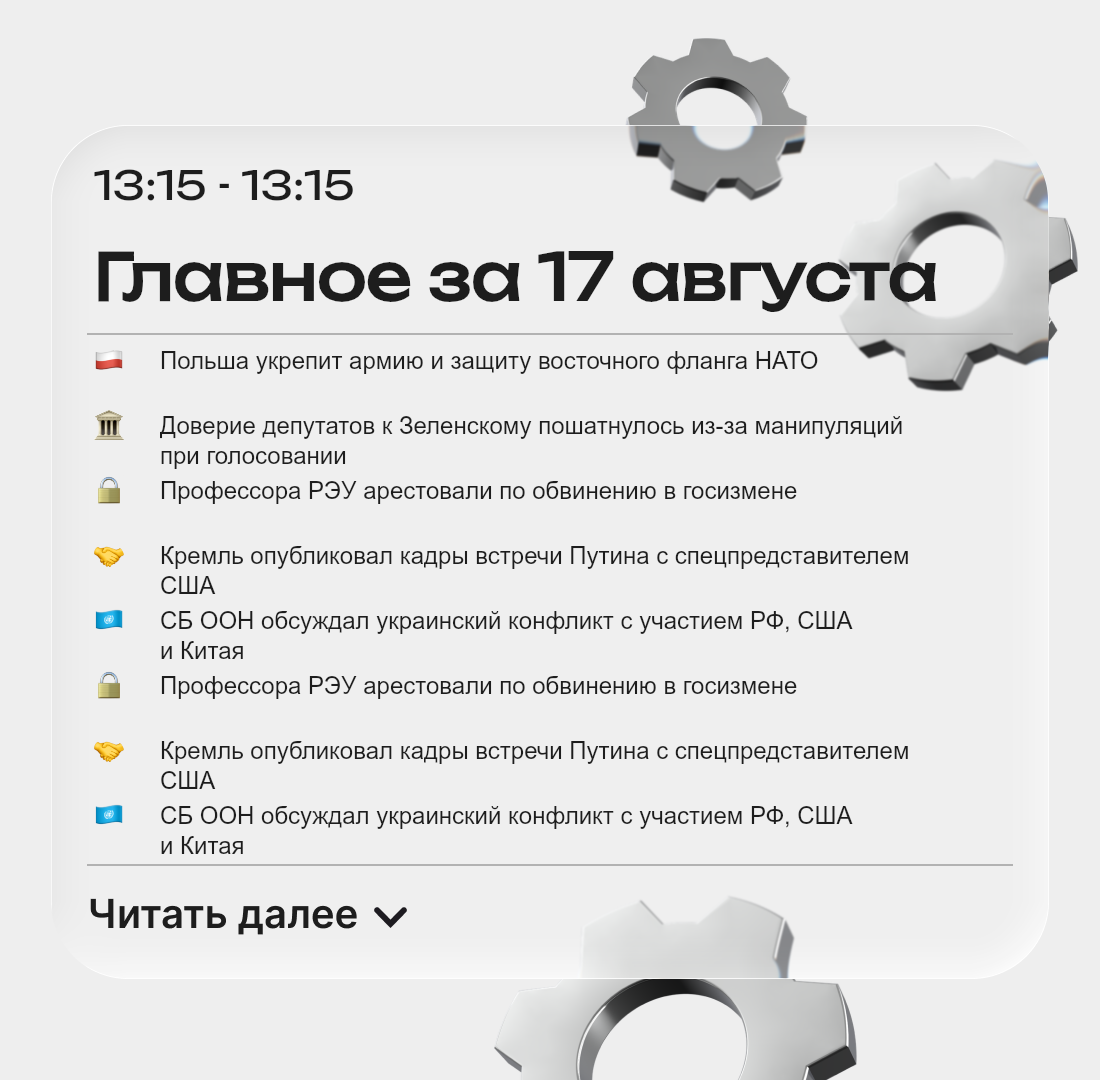
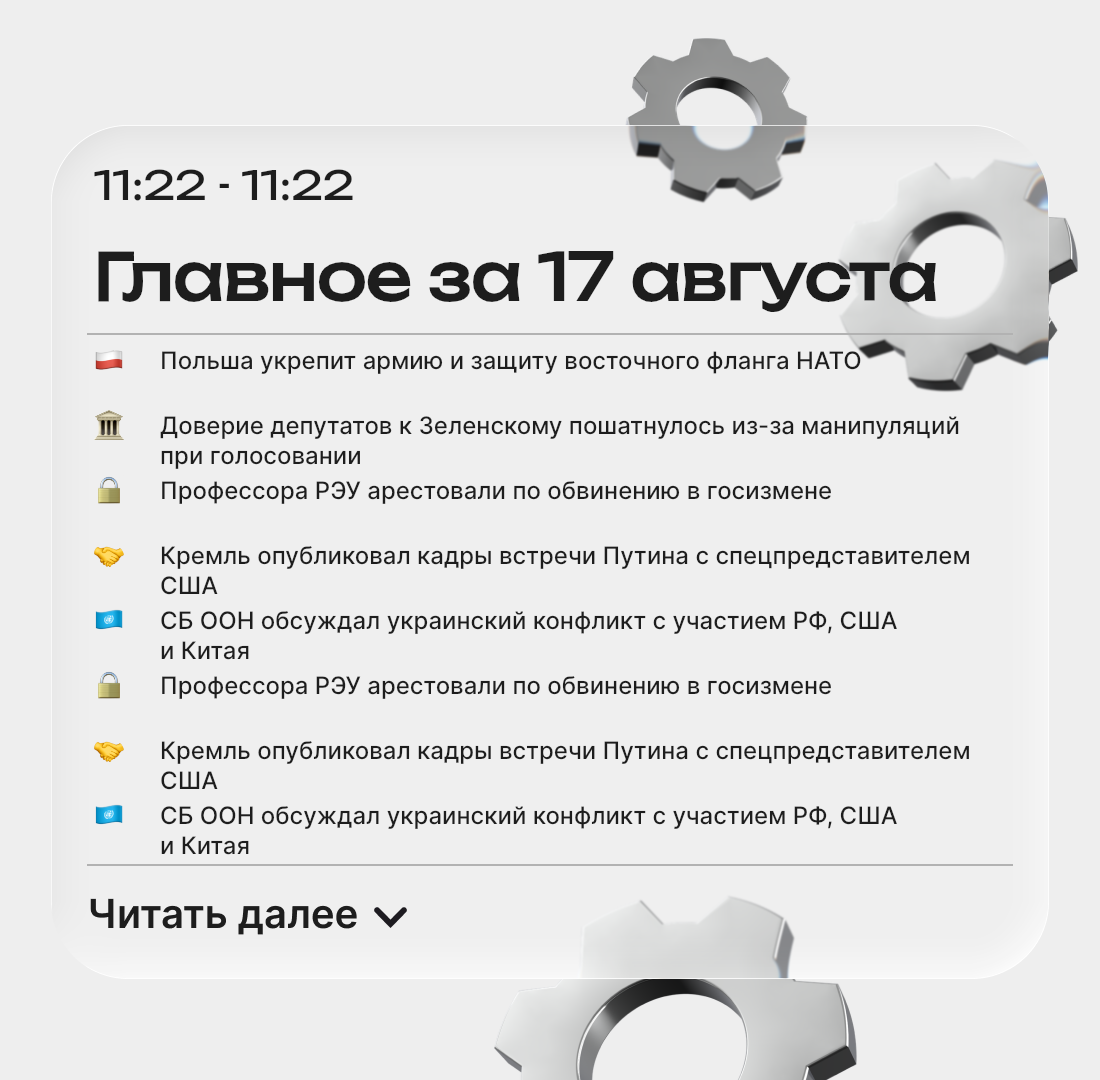
add line feed to post suffix

diff --git a/src/canvas/canvas.ts b/src/canvas/canvas.ts
@@ -282,53 +282,54 @@ export function clearPhotoDir() {
 }
 
 if (config.renderDebug) {
-renderPostImage({
-  cluster: Cluster.Технологии,
-  summary: [
-    {
-      emoji: "🇵🇱",
-      summary_short: "Польша укрепит армию и защиту восточного фланга НАТО",
-    },
-    {
-      emoji: "🏛",
-      summary_short:
-        "Доверие депутатов к Зеленскому пошатнулось из-за манипуляций при голосовании",
-    },
-    {
-      emoji: "🔒",
-      summary_short: "Профессора РЭУ арестовали по обвинению в госизмене",
-    },
-    {
-      emoji: "🤝",
-      summary_short:
-        "Кремль опубликовал кадры встречи Путина с спецпредставителем США",
-    },
-    {
-      emoji: "🇺🇳",
-      summary_short:
-        "СБ ООН обсуждал украинский конфликт с участием РФ, США и Китая",
-    },
-    {
-      emoji: "🔒",
-      summary_short: "Профессора РЭУ арестовали по обвинению в госизмене",
-    },
-    {
-      emoji: "🤝",
-      summary_short:
-        "Кремль опубликовал кадры встречи Путина с спецпредставителем США",
-    },
-    {
-      emoji: "🇺🇳",
-      summary_short:
-        "СБ ООН обсуждал украинский конфликт с участием РФ, США и Китая",
-    },
-  ],
-  toDate: new Date(),
-  fromDate: new Date(),
-})
-  .then((imageBuffer) => fs.promises.writeFile(`./techno.png`, imageBuffer))
-  .then(
-    (result) => console.log("Successfully wrote image"),
-    (reason) => console.error("Error", reason)
-  );
+  const imagePath = path.join(rootDir, `./techno.png`);
+  renderPostImage({
+    cluster: Cluster.Технологии,
+    summary: [
+      {
+        emoji: "🇵🇱",
+        summary_short: "Польша укрепит армию и защиту восточного фланга НАТО",
+      },
+      {
+        emoji: "🏛",
+        summary_short:
+          "Доверие депутатов к Зеленскому пошатнулось из-за манипуляций при голосовании",
+      },
+      {
+        emoji: "🔒",
+        summary_short: "Профессора РЭУ арестовали по обвинению в госизмене",
+      },
+      {
+        emoji: "🤝",
+        summary_short:
+          "Кремль опубликовал кадры встречи Путина с спецпредставителем США",
+      },
+      {
+        emoji: "🇺🇳",
+        summary_short:
+          "СБ ООН обсуждал украинский конфликт с участием РФ, США и Китая",
+      },
+      {
+        emoji: "🔒",
+        summary_short: "Профессора РЭУ арестовали по обвинению в госизмене",
+      },
+      {
+        emoji: "🤝",
+        summary_short:
+          "Кремль опубликовал кадры встречи Путина с спецпредставителем США",
+      },
+      {
+        emoji: "🇺🇳",
+        summary_short:
+          "СБ ООН обсуждал украинский конфликт с участием РФ, США и Китая",
+      },
+    ],
+    toDate: new Date(),
+    fromDate: new Date(),
+  })
+    .then((imageBuffer) => fs.promises.writeFile(imagePath, imageBuffer))
+    .then(
+      (result) => console.log(`Successfully wrote image: ${imagePath}`),
+      (reason) => console.error("Error", reason)
+    );
 }

diff --git a/src/utils/post.ts b/src/utils/post.ts
@@ -142,8 +142,8 @@ export function appendClusterPostSuffix(
   if (!link) {
     return text;
   }
-  const suffix = `Каждый час ${ClusterSuffix[cluster]}`;
-  text = `${text} ${suffix}`;
+  const suffix = `📢 Каждый час ${ClusterSuffix[cluster]}`;
+  text = `${text}\n\n${suffix}`;
   entities.push({
     _: "textEntity",
     offset: text.indexOf(suffix),
